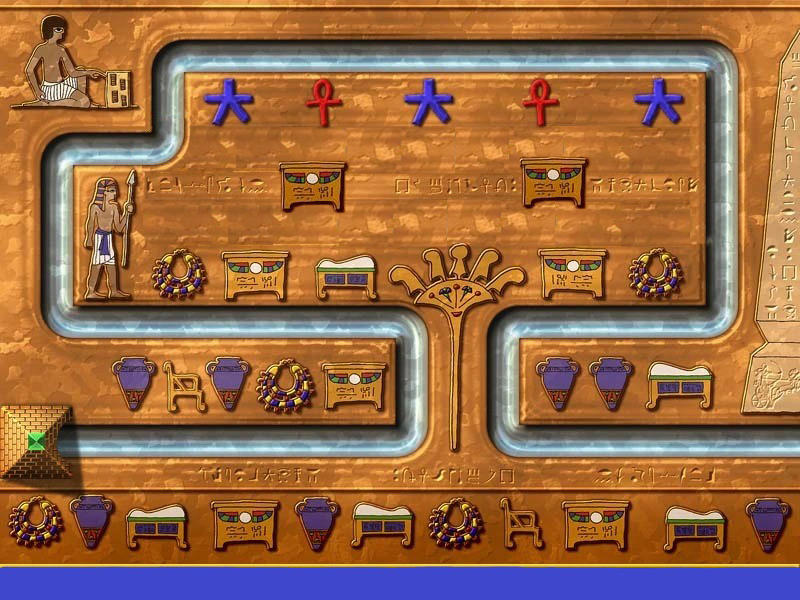
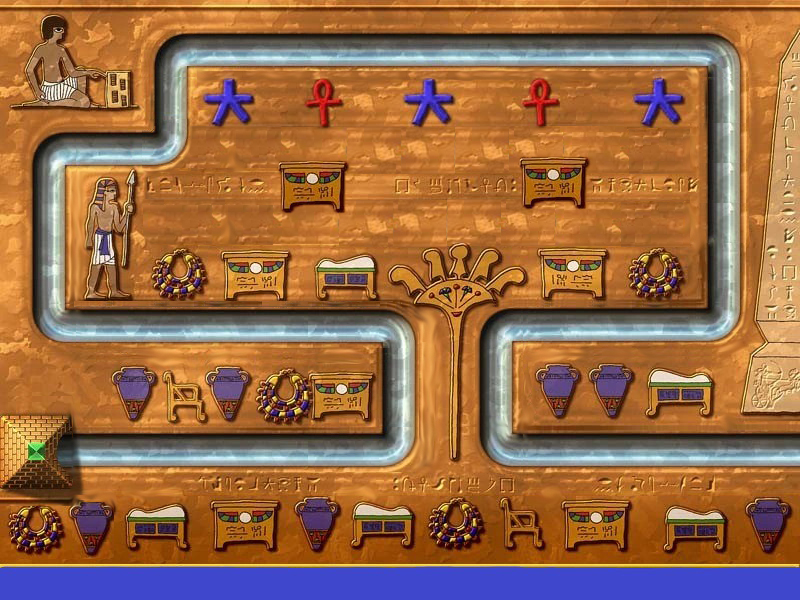
allinement of balls and path

Changed region(s): [[0.0, 0.03, 1.0, 0.93]]

diff --git a/src/main/java/it/unibo/utils/Path.java b/src/main/java/it/unibo/utils/Path.java
@@ -43,11 +43,9 @@ public class Path {
         if (points.contains(position)) {
             nextCorner = points.get(points.indexOf(position) + 1);
         } else {
-            boolean exit = false;
-            for (int i = 0; (i < points.size() - 1)&&!exit; i++) {
+            for (int i = 0; (i < points.size() - 1); i++) {
                 if (position.isBetween(points.get(i), points.get(i + 1))) {
                     nextCorner = points.get(i + 1);
-                    exit=true;
                 }
             }
         }

diff --git a/src/main/java/it/unibo/utils/QueueManager.java b/src/main/java/it/unibo/utils/QueueManager.java
@@ -43,7 +43,6 @@ public class QueueManager {
 
         // assegna le posizioni
         for (int i = 0; i < balls.size(); i++) {
-            System.out.println("ball n° " + i);
             balls.get(i).setPos(pos);
             direction = path.getMove(pos);
             pos = new P2d(pos.x + direction.getVelocity().getX() * Ball.IMAGE_DIAMETER,
